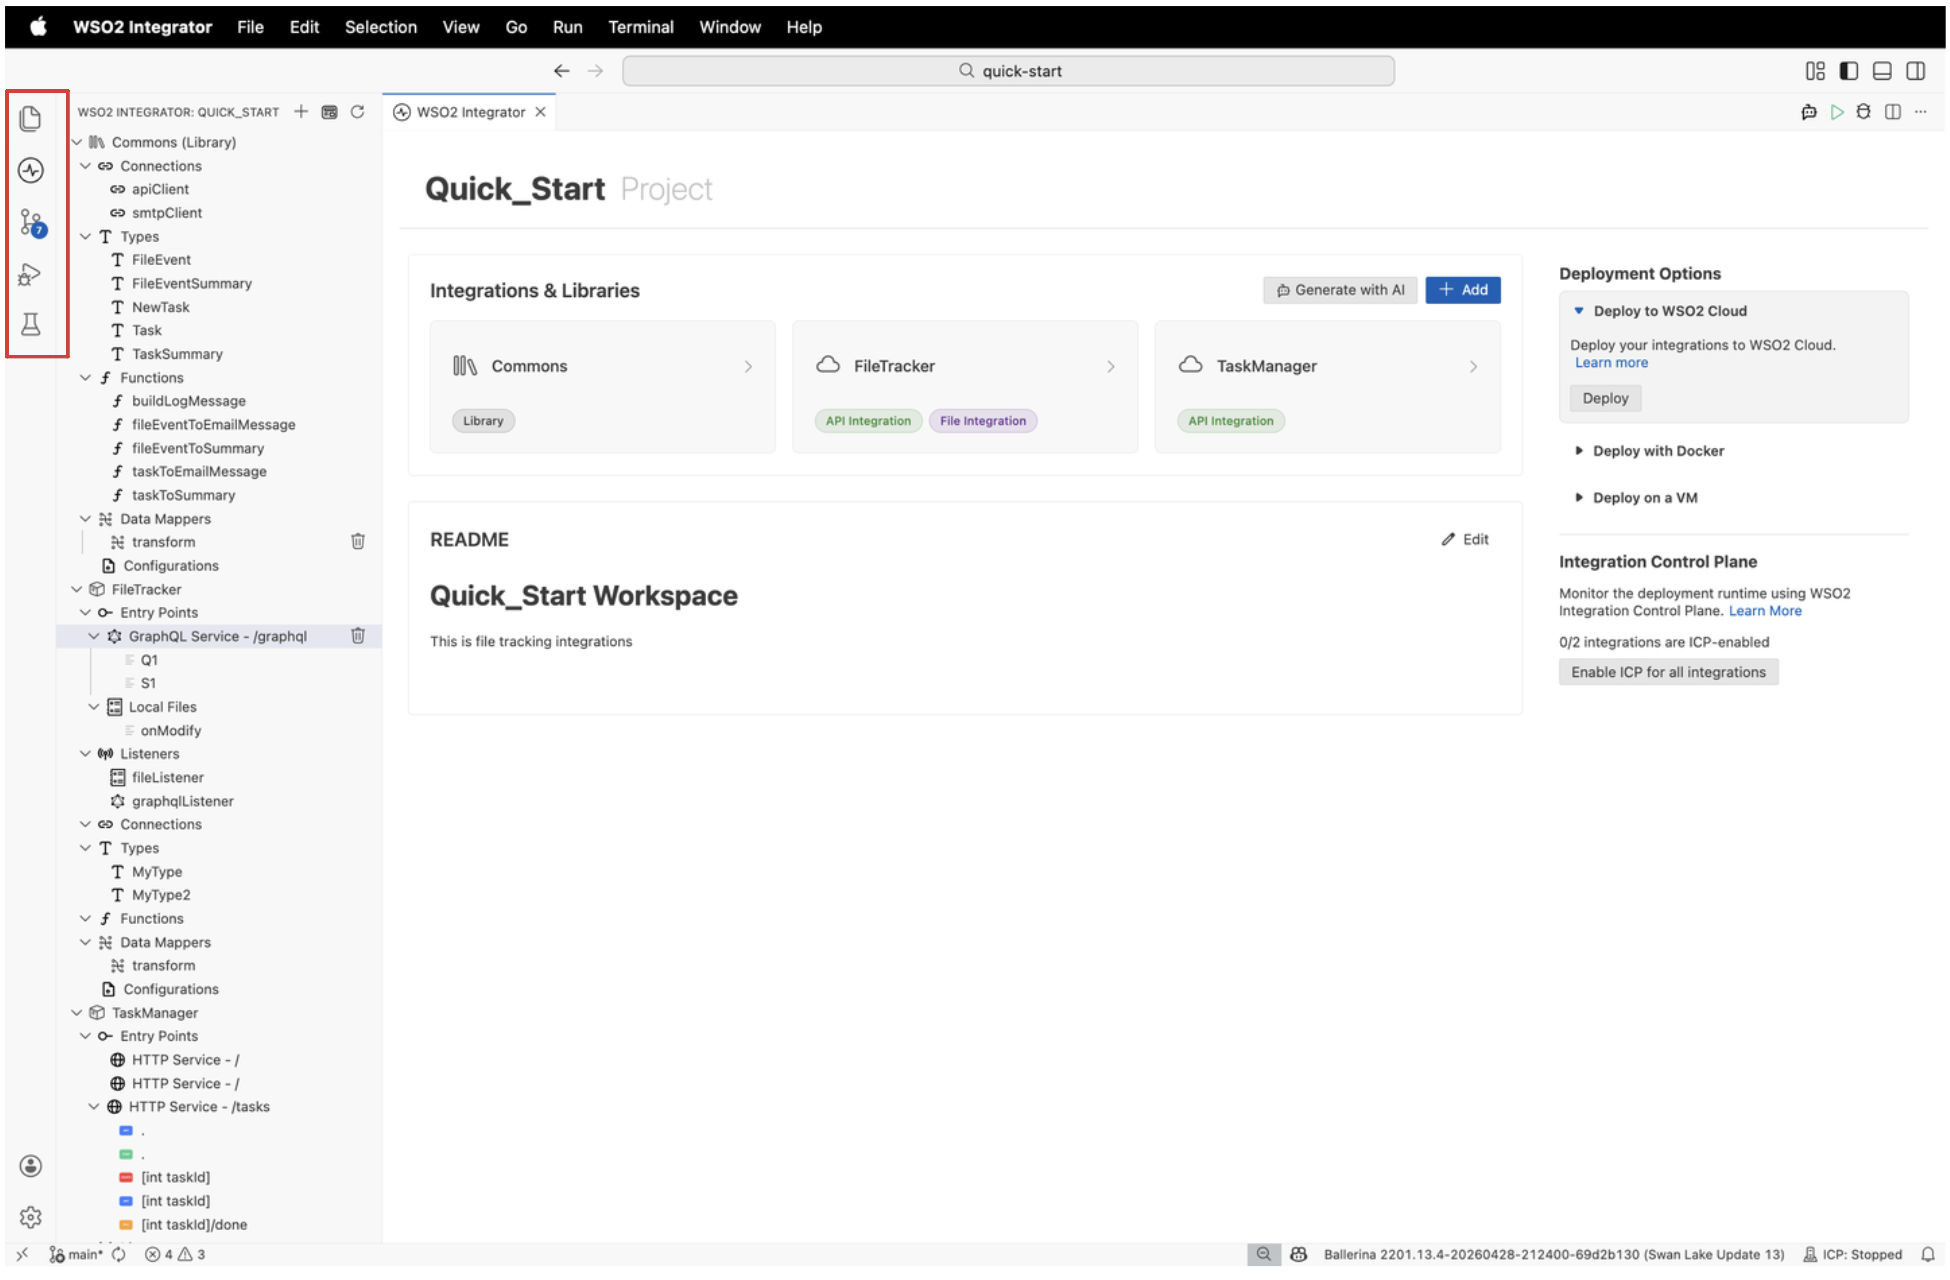
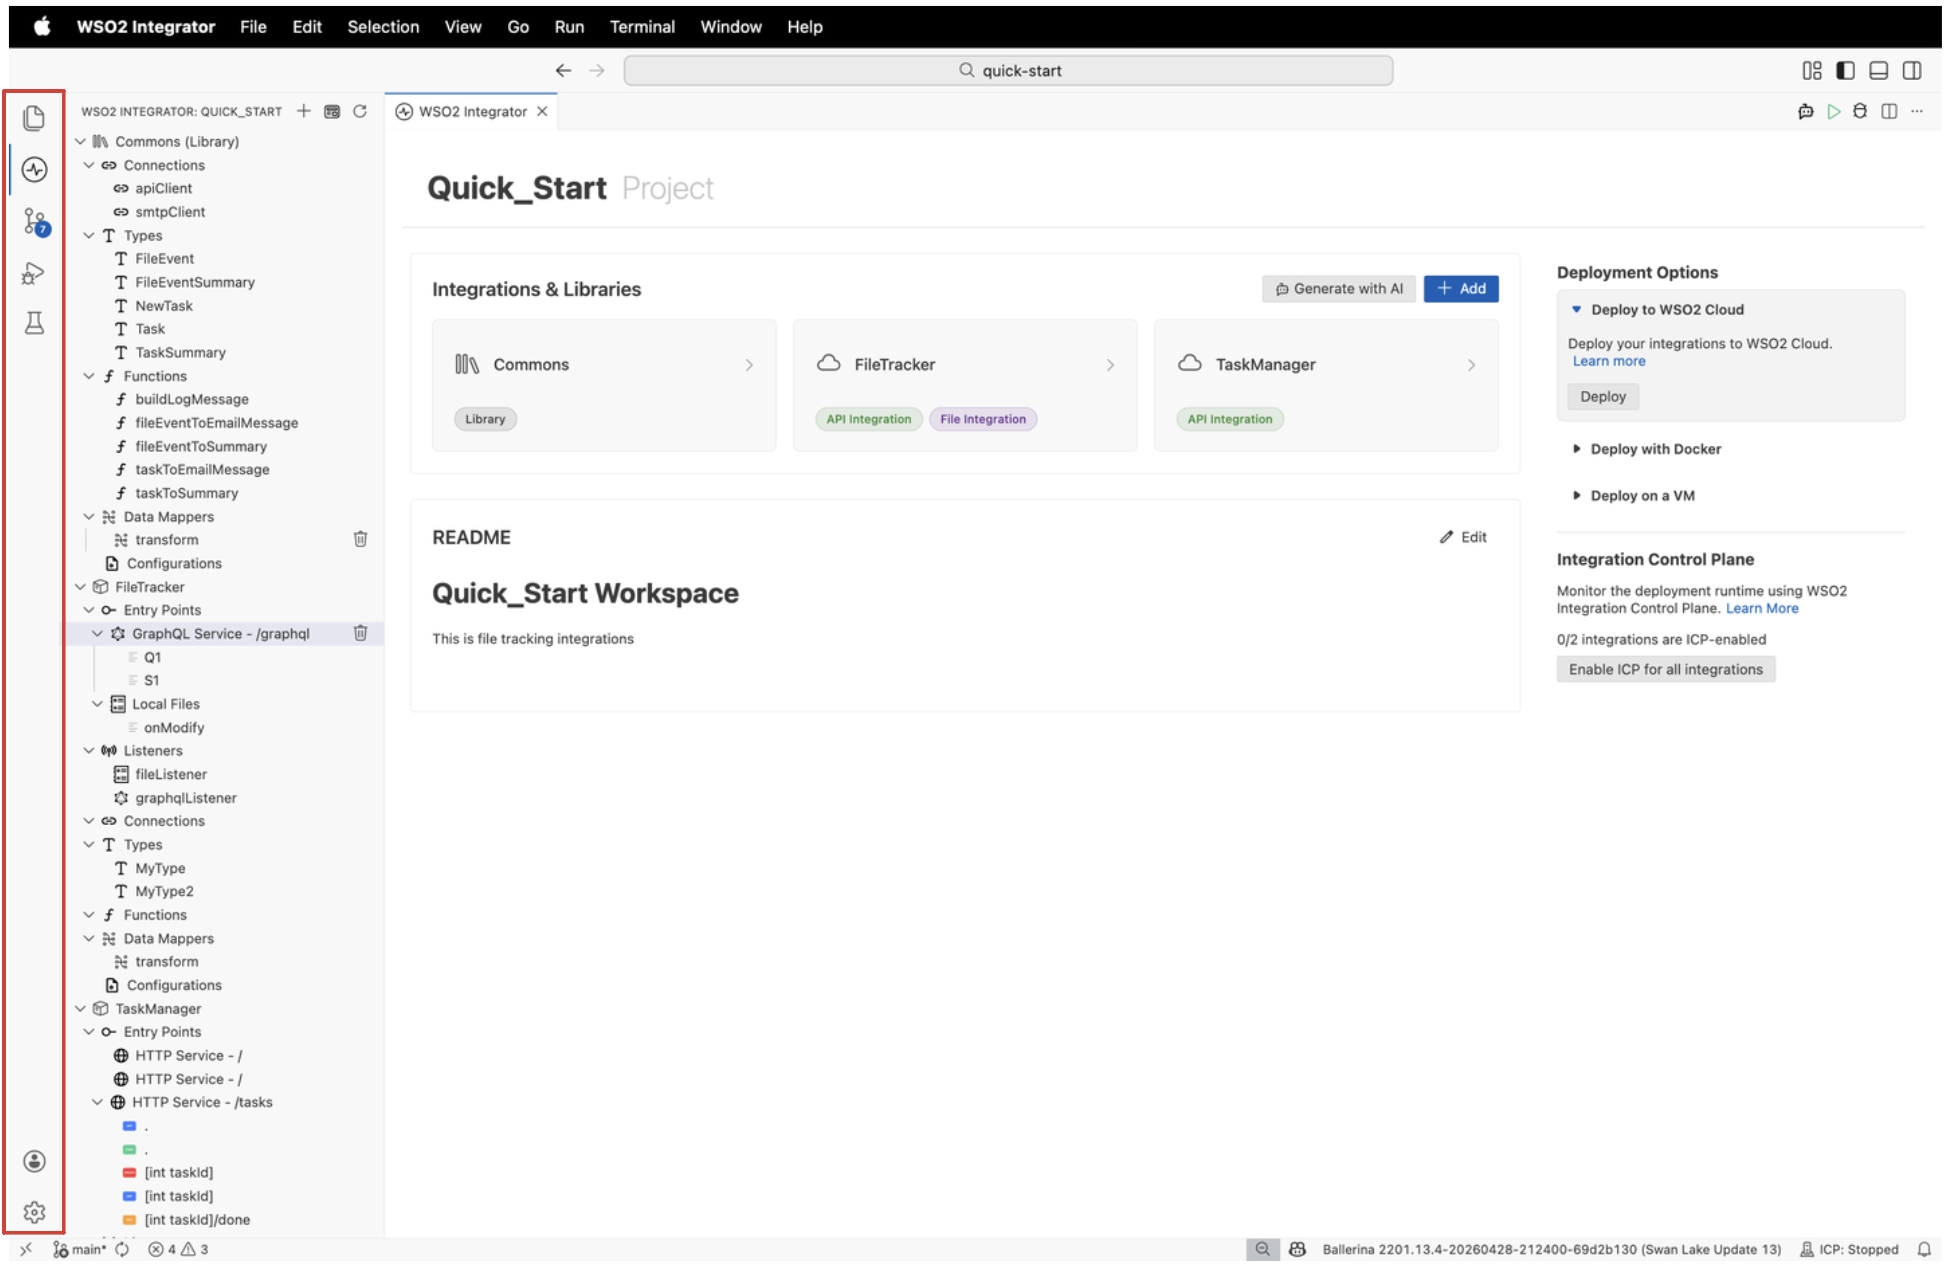
Add status bar and complete the activity bar

diff --git a/en/docs/develop/understand-ide/integrator-app.md b/en/docs/develop/understand-ide/integrator-app.md
@@ -38,11 +38,13 @@ The activity bar is the narrow vertical strip on the far-left edge of the IDE. E
 
 | Name | Description |
 |---|---|
-| **Explorer** | Opens the file explorer for browsing project files on disk. |
+| **Explorer** | Opens the file explorer to browse the raw project files on disk, such as `.bal` source files and `.toml` configuration files. |
 | **WSO2 Integrator** | Opens the project explorer for the current view. This is the entry point to the Integrator app. |
 | **Source Control** | Opens the Git source control panel for staging, committing, and reviewing changes. |
 | **Run and Debug** | Opens the debug panel for setting breakpoints, launching the integration with the debugger, and inspecting variables. |
 | **Test Explorer** | Opens the test explorer to view, run, and debug the test cases defined for your integration. |
+| **Accounts** | Shows the signed-in WSO2 Integrator account and provides actions to manage extension account preferences and language model access. |
+| **Manage** | Opens the IDE management menu with access to the Command Palette, Profiles, Settings, Keyboard Shortcuts, Snippets, Tasks, and Themes. |
 
 Select the **WSO2 Integrator** icon at any time to return to the project explorer and the current view.
 
@@ -91,6 +93,20 @@ The editor toolbar appears on the right side of the editor tab bar and provides 
 | **More** (**⋯**) | Reveals additional editor actions, such as reopening recently closed editors and pinning the tab. |
 
 The toolbar is the same across the [Project view](views/project-view.md), [Integrator view](views/integration-view.md), and [Library view](views/library-view.md), so the view-specific pages refer back to this section instead of repeating it.
+
+## Status bar
+
+The status bar runs across the bottom edge of the IDE and shows the current state of your project, runtime, and tooling at a glance. Select an item to open the related panel or action.
+
+![Status bar](/img/develop/understand-ide/integrator-app/status-bar.png)
+
+| Item | Description |
+|---|---|
+| **Branch indicator** (for example, `main*`) | Shows the active Git branch for the project. An asterisk indicates uncommitted changes. Select it to switch or manage branches. |
+| **Problems** (error and warning counts) | Shows the number of errors and warnings detected in the current project. Select it to open the Problems panel. |
+| **Ballerina version** | Shows the Ballerina distribution version that the IDE is using to build and run your integration (for example, `Ballerina 2201.13.4 (Swan Lake Update 13)`). |
+| **ICP** | Shows the status of the [Integration Control Plane](../../deploy/icp/overview.md) connection (for example, `ICP: Stopped`). Select it to start, stop, or configure ICP for the project. |
+| **Notifications** | Opens the notifications panel for messages from the IDE and its extensions. |
 
 ## What's next
 